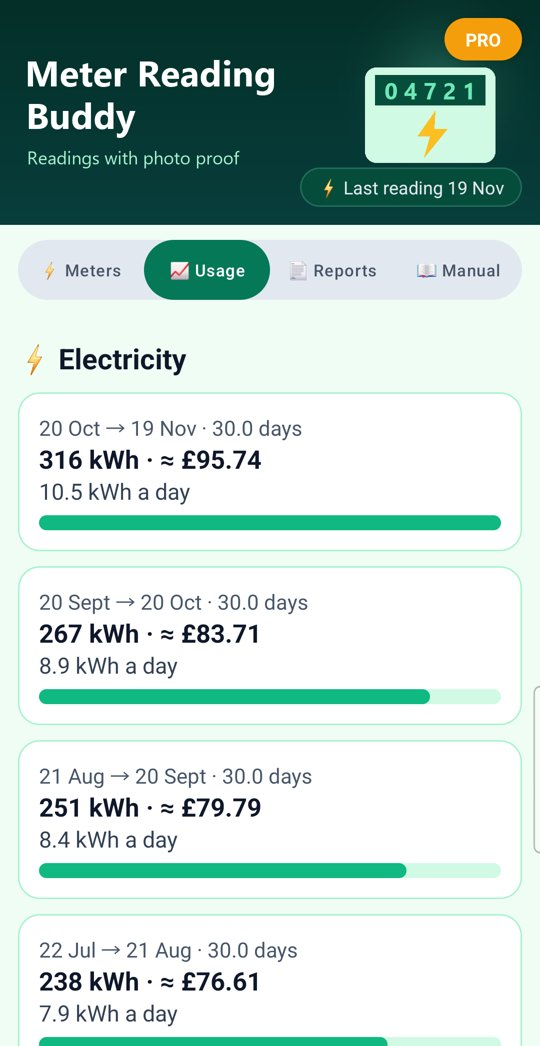
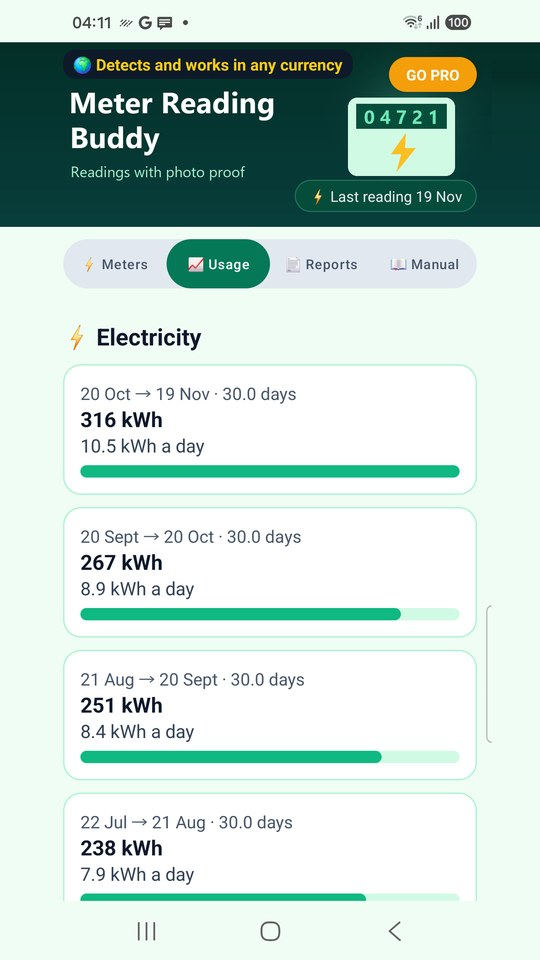
Meter Reading Buddy 1.4 (Build 5): any currency, manual word for word, new pictures

diff --git a/meter-reading-buddy/index.html b/meter-reading-buddy/index.html
@@ -57,14 +57,18 @@
         <p>The 📈 Usage tab shows, for each meter, how much was used between each pair of readings, how many days that was, and the use per day. The bar shows each period's use per day, so you can see when you used more.</p>
 
         <h3>💷 Cost estimates (Pro)</h3>
-        <p>Enter your unit price (pence per kWh, or per m³ of water) and standing charge (pence per day) from your bill. Each period then shows an estimated cost: units × unit price + days × standing charge.</p>
-        <p>Gas is priced per kWh, so gas use is turned into kWh the way UK bills do it: m³ × 1.02264 × calorific value ÷ 3.6, with a typical calorific value of 39.5. Your bill shows the exact calorific value, so your bill will differ slightly. Estimates don't include VAT changes, discounts or price changes during a period. A period where the reading went down (a replaced meter) has no estimate.</p>
+        <p>Enter your unit price (for example pence per kWh, or per m³ of water) and standing charge (per day) from your bill. Each period then shows an estimated cost: units × unit price + days × standing charge.</p>
+        <p>UK and many other bills price gas per kWh, so gas use is turned into kWh the way UK bills do it: m³ × 1.02264 × calorific value ÷ 3.6, with a typical calorific value of 39.5. Your bill shows the exact calorific value, so your bill will differ slightly. If your bill prices gas per m³ or per hundred cubic feet, choose that in ⚙ Meter. Estimates don't include VAT changes, discounts or price changes during a period. A period where the reading went down (a replaced meter) has no estimate.</p>
+
+        <h3>🌍 Any currency</h3>
+        <p>Costs are in your phone's currency, written the way your phone writes money. To use another currency, tap Change the currency in 📄 Reports. Where bills give prices in pence or cents (for example 24.5p per kWh) you type them that way; if your bill gives them in the currency itself (for example €0.30 per kWh), tap the button under Change the currency in 📄 Reports to type them that way.</p>
+        <p>The app never converts prices: after changing the currency, type the prices from your bill again.</p>
 
         <h3>📄 PDFs</h3>
         <ul>
             <li>📄 Latest readings PDF (free): each meter's latest reading with its date, time and photo, ready to send to your supplier.</li>
             <li>📄 Full history PDF (Pro): every reading with its photo, the use in each period and the estimated costs.</li>
-            <li>📊 Spreadsheet (Pro): every reading as a CSV for Excel or Google Sheets.</li>
+            <li>📊 Spreadsheet (Pro): every reading as a CSV for Excel or Google Sheets, with the currency in its own column.</li>
         </ul>
         <p>Add your account number in 📄 Reports to print it at the top.</p>
 
@@ -82,14 +86,15 @@
         <p>Google Play handles the Pro purchase.</p>
 
         <h3>About</h3>
-        <p>Meter Reading Buddy v1.3 (Build 4)</p>
+        <p>Meter Reading Buddy v1.4 (Build 5)</p>
         <p>Publisher: AppStack Studio</p>
 
         <h3>⚡ WHY METER READING BUDDY</h3>
         <table class="rival-table">
             <tr><th>Question</th><th>Many meter apps</th><th>Meter Reading Buddy</th></tr>
             <tr><td>Proof</td><td>Just numbers</td><td><strong>A photo of the meter with every reading, on the PDF</strong></td></tr>
-            <tr><td>UK gas</td><td>m³ only</td><td><strong>m³ or imperial cubic feet, turned into kWh the way UK bills do</strong></td></tr>
+            <tr><td>Gas</td><td>m³ only</td><td><strong>m³ or imperial cubic feet, priced per kWh (turned into kWh the way UK bills do) or per m³ or hundred ft³, as on your bill</strong></td></tr>
+            <tr><td>Currency</td><td>Often one currency only</td><td><strong>Any currency: prices typed in pence or cents, or in the currency itself, as your bill gives them</strong></td></tr>
             <tr><td>Price</td><td>Free with ads or a subscription</td><td><strong>Free for 3 meters; Pro is one payment for life (no subscription)</strong></td></tr>
         </table>
         <ul>
@@ -103,6 +108,7 @@
             <li>The app doesn't connect to your supplier or smart meter: readings are the ones you type in.</li>
             <li>Cost estimates use the prices you enter and, for gas, a typical calorific value: your bill will differ slightly.</li>
             <li>Readings and photos are kept only on your phone.</li>
+            <li>The app never converts prices between currencies: after changing the currency, type the prices from your bill again.</li>
         </ul>
     </div>
     <h2>App Screenshots Gallery</h2>
@@ -110,9 +116,9 @@
         <div class="screenshot-card"><img src="meter-reading-buddy-meters.jpg" alt="Meters with their latest readings and photos"><p><strong>1. Meters</strong><br>Each meter's latest reading, its photo and use per day.</p></div>
         <div class="screenshot-card"><img src="meter-reading-buddy-readings.jpg" alt="A meter's readings with photos"><p><strong>2. Readings</strong><br>Every reading with the date, time and the meter photo.</p></div>
         <div class="screenshot-card"><img src="meter-reading-buddy-usage.jpg" alt="Usage between readings with costs"><p><strong>3. Usage</strong><br>Use per period and per day, with estimated costs (Pro).</p></div>
-        <div class="screenshot-card"><img src="meter-reading-buddy-reports.jpg" alt="PDFs, spreadsheet and monthly reminder"><p><strong>4. Reports</strong><br>PDF for your supplier, spreadsheet and the monthly reminder.</p></div>
+        <div class="screenshot-card"><img src="meter-reading-buddy-reports.jpg" alt="PDFs, spreadsheet and monthly reminder"><p><strong>4. Reports</strong><br>PDF for your supplier, spreadsheet, 🌍 currency and the monthly reminder.</p></div>
     </div>
-    <p style="font-size: 13px; color: #94A3B8;">Screenshots: Meter Reading Buddy 1.0 on a Samsung Galaxy S24, with sample readings and drawn sample meters.</p>
+    <p style="font-size: 13px; color: #94A3B8;">Screenshots: Meter Reading Buddy 1.4 on a Samsung Galaxy S24, with sample readings and drawn sample meters.</p>
     <div class="footer">
         &copy; 2026 AppStack Studio. All rights reserved. | Support: <a href="mailto:appstack1966@gmail.com">appstack1966@gmail.com</a>
     </div>

diff --git a/meter-reading-buddy/privacy.html b/meter-reading-buddy/privacy.html
@@ -48,7 +48,7 @@
             <h2>Meter Reading Buddy — Privacy Policy</h2>
             <p class="meta">
                 <strong>Package Name:</strong> <code>com.appstackstudio.meterreadingbuddy</code> |
-                <strong>Effective Date:</strong> 19 November 2026 |
+                <strong>Effective Date:</strong> 27 November 2026 |
                 <strong>Developer:</strong> AppStack Studio
             </p>
 
@@ -58,7 +58,7 @@
             <ul>
                 <li><strong>Meters:</strong> name, type, units, and the unit price and standing charge you enter (Pro).</li>
                 <li><strong>Readings:</strong> the date and time, the number you type in, a note, and the photo of the meter you take or choose (stored as a smaller copy, at most 1600 pixels across).</li>
-                <li><strong>Settings:</strong> the reminder day, the account number or address you choose to print on the PDF, whether the welcome guide was shown and whether Pro is unlocked.</li>
+                <li><strong>Settings:</strong> the reminder day, the account number or address you choose to print on the PDF, your currency and how you type prices if you chose them, whether the welcome guide was shown and whether Pro is unlocked.</li>
             </ul>
             <h3>3. Photos</h3>
             <p>Photos come from your phone's own camera app or from Android's photo picker, which only gives the app the picture you choose. The app has no camera or storage permission and never reads your other photos.</p>

diff --git a/meter-reading-buddy/support.html b/meter-reading-buddy/support.html
@@ -49,7 +49,10 @@
             <h3>6. I didn't get the reminder.</h3>
             <p>Check the reminder day in 📄 Reports. If Android blocks the app's notifications, 📄 Reports shows 🔕 Notifications are blocked: tap it to allow them. Android may show the reminder a little after 09:00.</p>
 
-            <h3>7. I bought Pro on another phone. How do I get it back?</h3>
+            <h3>7. My bill gives prices in euros (or another currency), not cents.</h3>
+            <p>Tap Change the currency in 📄 Reports if needed, then the button under it to type prices in the currency itself, and type the prices as your bill gives them, for example 0.30 per kWh. Where bills use pence or cents, type them that way, for example 24.5. If your bill prices gas per m³ or per hundred cubic feet rather than per kWh, choose that in ⚙ Meter.</p>
+
+            <h3>8. I bought Pro on another phone. How do I get it back?</h3>
             <p>Use the same Google account, tap GO PRO at the top, then Restore purchase.</p>
         </div>
 
